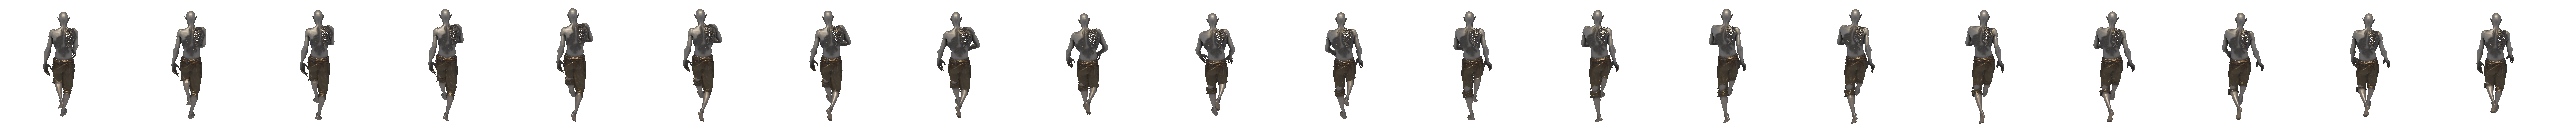
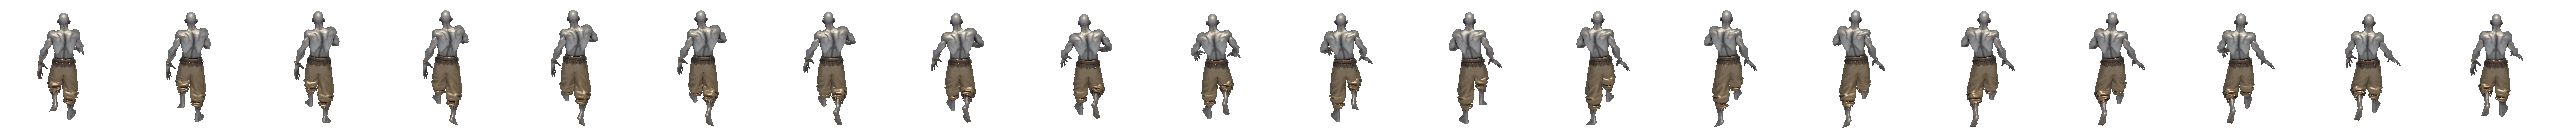
Added new assets for new enemy types and implemented a debug system for displaying animation trackers with ease for viewing my new animations.

diff --git a/src/Debug.cpp b/src/Debug.cpp
@@ -291,6 +291,76 @@ void debug_draw_stats(Font& font, MP_Texture* debug_texture) {
 	mp_set_texture_alpha_mod(debug_texture, 255);
 }
 
+void debug_draw_animation_trackers(Font& font, float delta_time) {
+	const int animation_play_speed = 300;
+
+	static std::vector<Animation_Tracker> trackers = {
+		create_animation_tracker(ATT_Direction_8, "hellhound", AS_Walking, true),
+		create_animation_tracker(ATT_Direction_8, "gravebound_peasant", AS_Walking, true),
+		create_animation_tracker(ATT_Direction_8, "ravenous_skulk", AS_Walking, true)
+	};
+
+	static bool first_pass = true;
+	if (first_pass) {
+		for (Animation_Tracker& at : trackers) {
+				first_pass = false;
+				// NOTE:																								Pointing South
+				change_animation_tracker(&at, at.entity_name, AS_Walking, APS_Speed_Based, false, { 0.0f, -1.0 });
+		}
+	}
+
+	for (Animation_Tracker& at : trackers) {
+		update_animation_tracker(&at, delta_time, animation_play_speed);
+	}
+
+	MP_Renderer* renderer = Globals::renderer;
+
+	int width = 150;
+	int height = 150;
+
+	int starting_x = 50;
+	int starting_y = renderer->window_height - (50 + height);
+
+	int offset_x = 20 + width;
+	int offset_y = -50 - height;
+
+	int images_per_row = 5;
+	int string_size = 1;
+
+	int num = (int)trackers.size();
+
+	std::vector<MP_Rect> background_rects(num);
+	int background_padding = 6;
+
+	mp_set_render_draw_color(0, 0, 0, 255);
+	for (int i = 0; i < num; ++i) {
+
+		int x = starting_x + (i % images_per_row) * offset_x;
+		int y = starting_y + (i / images_per_row) * offset_y;
+
+		background_rects[i].x = x - background_padding;
+		background_rects[i].y = y - background_padding;
+		background_rects[i].w = width  + background_padding * 2;
+		background_rects[i].h = height + background_padding * 2
+							  + font.char_height * (string_size + 1) + 5;
+	}
+
+	mp_render_fill_rects(background_rects.data(),
+						 static_cast<int>(background_rects.size()));
+	// First rows
+	for (int i = 0; i < trackers.size(); i++) {
+		int x = (starting_x + (i % images_per_row) * offset_x);
+		int y = starting_y + (i / images_per_row) * offset_y;
+		int title_x = x + width / 2;
+		int title_y = y + (font.char_height * (string_size - 1)) + (height) + (font.char_height * 2) / 2;
+
+		MP_Rect rect = { x, y, width, height };
+
+		draw_string(font, trackers[i].entity_name.c_str(), CT_White, true, title_x, title_y, string_size, true);
+		draw_animation_tracker(&trackers[i], rect, 0);
+	}
+}
+
 void debug_draw_all_debug_info(Game_Data& game_data, Font& font, MP_Texture* debug_texture, float delta_time) {
 	if (Globals::toggle_debug_images) {
 		debug_draw_mp_renderer_visualizations(font, debug_texture, delta_time);
@@ -300,6 +370,9 @@ void debug_draw_all_debug_info(Game_Data& game_data, Font& font, MP_Texture* deb
 	}
 	if (Globals::debug_show_stats) {
 		debug_draw_stats(font, debug_texture);
+	}
+	if (Globals::toggle_debug_unit_images) {
+		debug_draw_animation_trackers(font, delta_time);
 	}
 }
 

diff --git a/src/Main.cpp b/src/Main.cpp
@@ -351,15 +351,18 @@ int WinMain(HINSTANCE hInstance, HINSTANCE hPrevInstance, LPSTR lpCmdLine, int n
 			Globals::toggle_debug_images = !Globals::toggle_debug_images;
 		}
 		if (key_pressed(VK_F2)) {
-			Globals::debug_show_coordinates = !Globals::debug_show_coordinates;
+			Globals::toggle_debug_unit_images = !Globals::toggle_debug_unit_images;
 		}
 		if (key_pressed(VK_F3)) {
+			Globals::debug_show_coordinates = !Globals::debug_show_coordinates;
+		}
+		if (key_pressed(VK_F4)) {
 			Globals::debug_show_stats = !Globals::debug_show_stats;
 		} 
-		if (key_pressed(VK_F4)) {
+		if (key_pressed(VK_F5)) {
 			Globals::debug_show_colliders = !Globals::debug_show_colliders;
 		}
-		if (key_pressed(VK_F5)) {
+		if (key_pressed(VK_F6)) {
 			Globals::toggle_debug_images = !Globals::toggle_debug_images;
 			if (Globals::debug_show_coordinates != Globals::toggle_debug_images) {
 				Globals::debug_show_coordinates = !Globals::debug_show_coordinates;

diff --git a/src/Debug.h b/src/Debug.h
@@ -1,6 +1,6 @@
 #pragma once
 #include "Utility.h"
-#include "Image.h"
+#include "Sprite_System.h"
 #include "Rigidbody.h"
 #include "Game_Data.h"
 
@@ -25,4 +25,5 @@ void debug_draw_coor(Game_Data& game_data, V2 coor_to_draw, bool convert_coor_to
 void debug_draw_collider_coodinates(Game_Data& game_data, Rigid_Body& rb);
 void debug_draw_mp_renderer_visualizations(Font& font, MP_Texture* debug_texture, float delta_time);
 void debug_draw_stats(Font& font, MP_Texture* debug_texture);
+void debug_draw_animation_trackers(Font& font, float delta_time);
 void debug_draw_all_debug_info(Game_Data& game_data, Font& font, MP_Texture* debug_texture, float delta_time);

diff --git a/src/Sprite_System.h b/src/Sprite_System.h
@@ -81,8 +81,5 @@ void change_animation_tracker(Animation_Tracker* at, std::string& entity_name_vi
 void update_animation_tracker(Animation_Tracker* at, float delta_time, float speed_based);
 void draw_animation_tracker(Animation_Tracker* at, MP_Rect dst, float angle);
 
-// Just for drawing a 1x1 sprite sheet
-void draw_sprite_sheet_1x1();
-
 void load_sprite_sheets();
-void load_sprite_sheet_data_csv(CSV_Data* data);
+void load_sprite_sheet_data_csv(CSV_Data* data); 

diff --git a/src/Globals.h b/src/Globals.h
@@ -13,6 +13,7 @@ namespace Globals {
 	extern int resolution_x;
 	extern int resolution_y;
 	extern bool toggle_debug_images;
+	extern bool toggle_debug_unit_images;
 	extern bool debug_show_coordinates;
 	extern bool debug_show_stats;
 	extern bool debug_show_colliders;

diff --git a/src/Globals.cpp b/src/Globals.cpp
@@ -9,6 +9,7 @@ namespace Globals {
 	int resolution_y = 900;
 
 	bool toggle_debug_images = false;
+	bool toggle_debug_unit_images = true;
 	bool debug_show_coordinates = false;
 	bool debug_show_stats = false;
 	bool debug_show_colliders = false;
